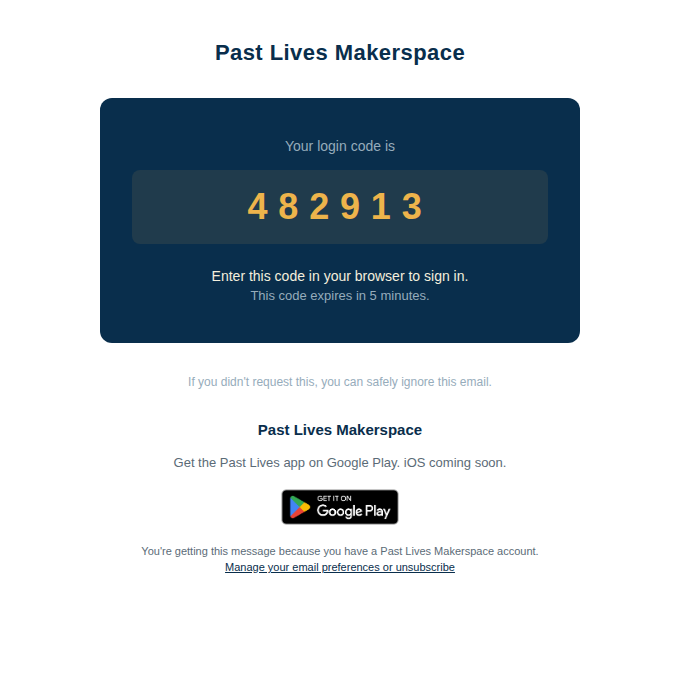
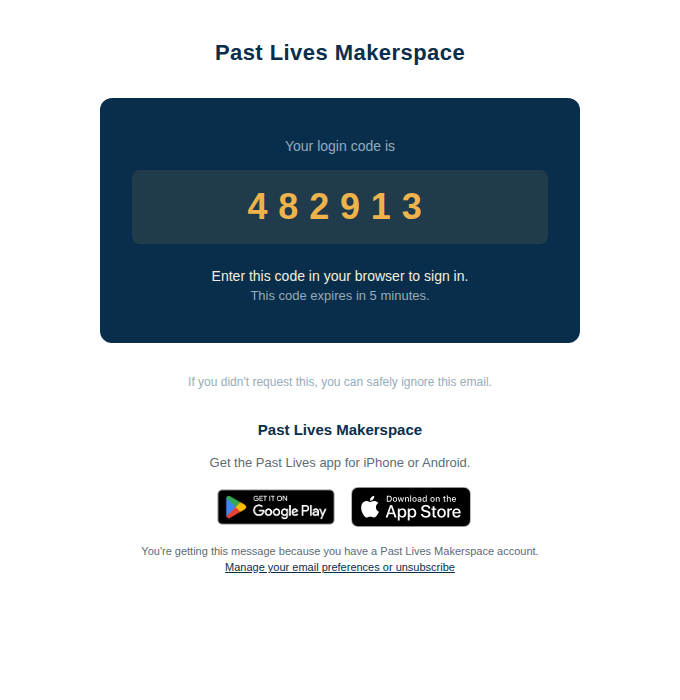
[emails] The App Store URL defaults to the live listing, so both badges show from the first deploy (#473)
The iOS app is on the App Store (id6796557084); the ticket predated it. Blank stays the
not launched state for a fresh deployment or a pulled listing.

Claude-Session: https://claude.ai/code/session_016oQAaPzkwBV4Dc6jtMrvVe

Changed region(s): [[0.2471, 0.63, 0.7412, 0.75]]

diff --git a/core/models.py b/core/models.py
@@ -928,8 +928,8 @@ class SiteConfiguration(models.Model):
         help_text="Your main marketing website, with no trailing slash. The public topbar's Home, Guilds, Membership, and Contact links and the sidebar globe icon are built from it.",
     )
     # #467: the two store listings behind every "Get the app" badge (email footers, the sign in
-    # page, the member home, the sidebar and the landing page). Blank means not launched, so the
-    # day Apple approves the app an admin fills in the App Store URL and every surface flips.
+    # page, the member home, the sidebar and the landing page). Both default to the live Past
+    # Lives listings; blank means not launched, which a fresh deployment or a pulled listing uses.
     google_play_url = models.URLField(
         blank=True,
         default="https://play.google.com/store/apps/details?id=app.pastlives.hub",
@@ -938,9 +938,9 @@ class SiteConfiguration(models.Model):
     )
     app_store_url = models.URLField(
         blank=True,
-        default="",
+        default="https://apps.apple.com/us/app/past-lives-makerspace/id6796557084",
         verbose_name="App Store URL",
-        help_text="The app's App Store listing, https://apps.apple.com/app/id<number>. Blank means not launched: the badge is left out everywhere and the copy says iOS is coming soon.",
+        help_text="The app's App Store listing. Blank means not launched: the badge is left out everywhere and the copy says iOS is coming soon.",
     )
 
     class Meta:

diff --git a/core/spec/models/site_configuration_brand_spec.py b/core/spec/models/site_configuration_brand_spec.py
@@ -37,12 +37,12 @@ def describe_SiteConfiguration_brand_defaults():
         config = SiteConfiguration.load()
         assert bool(config.org_logo) is False
 
-    def it_defaults_the_store_links_to_android_live_and_ios_unlaunched():
-        # #467: the Play listing is live, so it is the default; a blank App Store URL is
-        # the "not launched" state every surface reads as "iOS coming soon".
+    def it_defaults_the_store_links_to_the_live_listings():
+        # #467: both listings are live, so both are defaults; a blank one is the "not launched"
+        # state that leaves that badge out everywhere.
         config = SiteConfiguration.load()
         assert config.google_play_url == "https://play.google.com/store/apps/details?id=app.pastlives.hub"
-        assert config.app_store_url == ""
+        assert config.app_store_url == "https://apps.apple.com/us/app/past-lives-makerspace/id6796557084"
 
     def it_survives_load_on_a_fresh_database():
         # A data migration (0003) already seeds pk=1 on a fresh database, so ``load()``

diff --git a/tests/core/context_processors_spec.py b/tests/core/context_processors_spec.py
@@ -140,11 +140,11 @@ def describe_brand():
             "brand_website_url": "https://pastlives.space",
             "brand_website_display": "pastlives.space",
             "brand_google_play_url": "https://play.google.com/store/apps/details?id=app.pastlives.hub",
-            "brand_app_store_url": "",
+            "brand_app_store_url": "https://apps.apple.com/us/app/past-lives-makerspace/id6796557084",
         }
 
-    def it_reflects_an_app_store_url_once_it_is_filled_in():
-        # #467: the day Apple approves the app, the setting flips every surface, no deploy.
+    def it_reflects_an_edited_app_store_url():
+        # #467: a listing change is a settings change, no deploy.
         config = SiteConfiguration.load()
         config.app_store_url = "https://apps.apple.com/app/id1234567890"
         config.save()

diff --git a/core/migrations/0092_siteconfiguration_store_urls.py b/core/migrations/0092_siteconfiguration_store_urls.py
@@ -25,8 +25,8 @@ class Migration(migrations.Migration):
             name="app_store_url",
             field=models.URLField(
                 blank=True,
-                default="",
-                help_text="The app's App Store listing, https://apps.apple.com/app/id<number>. Blank means not launched: the badge is left out everywhere and the copy says iOS is coming soon.",
+                default="https://apps.apple.com/us/app/past-lives-makerspace/id6796557084",
+                help_text="The app's App Store listing. Blank means not launched: the badge is left out everywhere and the copy says iOS is coming soon.",
                 verbose_name="App Store URL",
             ),
         ),
